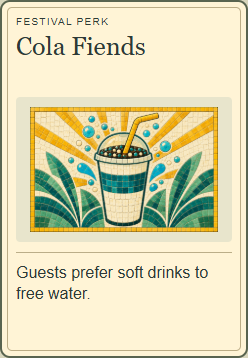
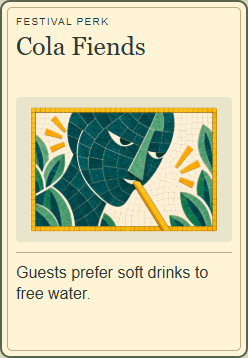
Integrate approved Cola Fiends v5 mosaic artwork

Changed region(s): [[0.1129, 0.2765, 0.9032, 0.6453]]

diff --git a/assets/source/perks/mosaic-suite-v1/PROMPTS.md b/assets/source/perks/mosaic-suite-v1/PROMPTS.md
@@ -132,3 +132,20 @@ Use case: precise-object-edit. Image1 is the edit target. Change ONLY the smiley
 Use case: precise-object-edit. Image1 is the edit target for a text-free mosaic perk card called Cola Fiends. Keep the protective cola-clutching pose, main cola cup and two spent cups, golden sun rays, sage and teal foliage, gold border and chunky glazed ceramic mosaic material. Replace the entire detailed human character with a MUCH MORE ABSTRACT, graphic dark-teal guest silhouette, in the same central placement. A plain round/oval featureless head, a simple rounded torso and two simplified mitten-like hands curved protectively around the cola cup. No anatomical fingers or realistic skin. NO facial features at all: no eyes, nose, lips, teeth, cheeks, eyebrows, ears, hair or facial modelling. Slightly hunch the simple head towards the golden straw to suggest compulsive sipping / needing their cola fix. Make it read as an elegant playful symbolic icon rather than a cartoon portrait. Main cup: cream paper with teal band, dark teal-brown cola visible at rim, bent golden straw; spent cups at lower left indicate a cola habit. No bubble-tea pearls or floating bubbles, no drugs, no brands, no text, no red. Landscape3:2 opaque PNG1536x1024; all edges and border visible.
 
 
+
+## Cola Fiends v5 — approved 3 October 2026
+
+Selected v5 replaces the original runtime artwork; earlier candidates remain source alternatives. Approval: ../mosaic-suite-batch2/revisions-v5/APPROVAL.md. Effect remains: Guests prefer soft drinks to free water.
+
+# Cola Fiends v5 — alternative geometric close-up
+
+Built-in image_gen; prior v4 artwork used as a style reference. New candidate for user review, not a runtime replacement. Earlier concepts retained.
+
+## Prompt
+
+Use case: stylized-concept. Create ONE NEW alternative to image1 (style reference, not a scene to copy exactly). Text-free artwork for a festival-tycoon perk called Cola Fiends. Landscape3:2 PNG1536x1024.
+A cropped close-up of an ABSTRACT TEAL ADULT FACE leaning down towards a SINGLE STRAIGHT GOLDEN STRAW. Face seen at three-quarter angle rather than complete side profile. Use spare bold geometric planes: oval head, one angular triangular nose, two small cream eye slivers, tiny cream mouth notch. No large ear, no detailed hair, no realistic flesh, teeth, pupils or portrait anatomy. Expression slyly intent through the slightly lowered eye slivers and tilt. The face occupies left/centre; cream tiled negative space at right.
+The straight straw enters diagonally from the bottom-right edge and ends at the visually ambiguous small gap between underside of nose and upper lip. NO bend in the straw, no visible cup, drink, hands or torso. The composition should make the viewer briefly wonder whether the character is sipping cola or taking a 'coke' fix. This is suggestive visual wordplay only: no powder, drug substances, paraphernalia, instructions, labels or other props.
+Match image1's handmade glazed ceramic mosaic: chunky subtly irregular tesserae, warm ivory grout, rich deep teal/turquoise/sage/golden yellow/warm cream. Thin golden tile border fully visible on four sides, cream mosaic background, restrained sage leaf corners and a few golden rays. Clear simple icon-like abstraction, not uncanny cartoon human, not vector illustration. NO red, text, letters, numerals, logos or watermarks. Opaque straight-on flat mosaic panel. Keep complete face/straw relation safely inside the border, except bottom of straw intentionally goes offscreen.
+
+

diff --git a/assets/source/DESIGN_INDEX.md b/assets/source/DESIGN_INDEX.md
@@ -10,9 +10,9 @@ The user's [working agreement](../../docs/WORKING-AGREEMENTS.md) records that ap
 
 Perk mosaic batch 2 adds six existing-catalogue artworks under user-requested integration and producer authorization on 3 October 2026: [full source/reviews](perks/mosaic-suite-batch2/) and [integration result](../../briefs/results/perk-mosaic-batch2.md). The active suite-v1 manifest now indexes fourteen cards while preserving the original eight. Initial integration did not claim separate user aesthetic approval; subsequent feedback is recorded below. No gameplay or layout changes accompany the assets.
 
-Batch 2 revision: user approved Beer Festival, Bring Your Own Bottle and Alcoholics; requested Friendly Queues smileys and clipboard-free Robot Workers are integrated. The new Cola Fiends candidate remains source/review only pending selection, with canonical runtime unchanged. [Revision scope](perks/mosaic-suite-batch2/revisions-v2/INTEGRATION.md).
+Batch 2 revision: user approved Beer Festival, Bring Your Own Bottle and Alcoholics; requested Friendly Queues smileys and clipboard-free Robot Workers are integrated. At that revision, Cola Fiends remained source/review only; v5 selection is recorded below. [Revision scope](perks/mosaic-suite-batch2/revisions-v2/INTEGRATION.md).
 
-Latest batch 2 revision supersedes the circular Friendly Queues faces with blue eyes and smiles directly on cream bubbles. Robot Workers v2 is user-approved and unchanged. Cola Fiends v3 stays preview-only pending selection. [Current revision scope](perks/mosaic-suite-batch2/revisions-v3/INTEGRATION.md).
+Batch 2 revision 3 supersedes the circular Friendly Queues faces with blue eyes and smiles directly on cream bubbles. Robot Workers v2 is user-approved and unchanged. Cola Fiends v3 remains a source alternative. [Current revision scope](perks/mosaic-suite-batch2/revisions-v3/INTEGRATION.md).
 
 | Design / repo copy | Current status | Implementation / supersession |
 | --- | --- | --- |
@@ -50,3 +50,5 @@ Approved 1 October 2026 and integrated in [R0.05ah](../../briefs/R0.05ah-litter-
 - Any link inside an older copied handoff that points to `../portaloo-asset-v1/`, sibling original art-workspace directories or old absolute `C:/Projects/...` evidence paths must be read as **historical source context**, not guaranteed repo-local links. The current index links above are verified repo files; missing original siblings are explicitly external. Broken or inaccessible source references should be resolved against the art workspace before asset work, not silently replaced with a similar-looking file.
 
 The [current-design entrypoint](../../CURRENT_DESIGN.md), [dated decisions](../../briefs/DECISIONS.md) and [backlog](../../briefs/BACKLOG.md) classify implementation and pending status. This index establishes source location and provenance only.
+
+Latest batch 2 revision: user-approved Cola Fiends v5 is integrated with matching SVG and refreshed previews. Earlier candidates remain source alternatives. [Approval](perks/mosaic-suite-batch2/revisions-v5/APPROVAL.md) and [integration](perks/mosaic-suite-batch2/revisions-v5/INTEGRATION.md).

diff --git a/assets/source/perks/mosaic-suite-batch2/revisions-v4/PROMPTS.md b/assets/source/perks/mosaic-suite-batch2/revisions-v4/PROMPTS.md
@@ -1,0 +1,9 @@
+# Cola Fiends v4 — ambiguous straw close-up
+
+Built-in image_gen, one call, previous abstract v3 artwork as the style/reference anchor. New candidate for user review; v3 remains the backup. Friendly Queues v3 is user-approved. No runtime cola replacement is authorized until the user selects a concept.
+
+## Prompt
+
+Use case: stylized-concept / precise-object-edit. Image1 is the previous Cola Fiends mosaic concept, the style and abstract-character anchor. Create ONE revised text-free perk artwork, landscape 3:2 PNG1536x1024.
+New composition: a much closer cropped view of a single abstract teal adult guest's face in THREE-QUARTER / SIDE PROFILE, leaning forward toward one golden straw entering diagonally from the bottom edge. All drinks, cups, hands and torso are OUT OF SHOT. The golden straw's upper end meets the tiny gap BETWEEN the simplified nose underside and upper lip; its destination is intentionally visually AMBIGUOUS, could be drinking through the mouth or sniffing through the nose. This is a cheeky fictional 'cola fiend / coke fiend' visual pun. Keep it ambiguous, NOT explicit drug use: no visible substance, no powder, baggies, lines, mirror or other props. The hidden lower end of the straw continues beyond the bottom inner border into offscreen space.
+Face is an elegant abstract mosaic silhouette: rich deep teal with a minimal angular nose profile, one small cream eye tile, a tiny understated turquoise mouth mark. Large bold flat shapes, no realistic skin, anatomy modelling, detailed irises, teeth, cheeks, hair strands or creepy cartoon portrait. Expression focused and slightly furtive, communicated primarily by the lean and eye angle. Head fills most of the panel but fits within the golden border. Retain the suite's chunky handmade glazed ceramic tesserae, warm ivory grout, deep teal/turquoise/sage/golden yellow/warm cream palette. Restrained sage leaf corners and a few golden ray accents; cream tiled background. Thin golden tile border on all four edges. NO red, amber drink, black drug paraphernalia, text, lettering, numerals, watermark, logos or brands. Opaque, straight-on mosaic panel, not tilted/tabletop, not a full card or sheet.

diff --git a/assets/source/perks/mosaic-suite-batch2/revisions-v5/PROMPTS.md b/assets/source/perks/mosaic-suite-batch2/revisions-v5/PROMPTS.md
@@ -1,0 +1,10 @@
+# Cola Fiends v5 — alternative geometric close-up
+
+Built-in image_gen; prior v4 artwork used as a style reference. New candidate for user review, not a runtime replacement. Earlier concepts retained.
+
+## Prompt
+
+Use case: stylized-concept. Create ONE NEW alternative to image1 (style reference, not a scene to copy exactly). Text-free artwork for a festival-tycoon perk called Cola Fiends. Landscape3:2 PNG1536x1024.
+A cropped close-up of an ABSTRACT TEAL ADULT FACE leaning down towards a SINGLE STRAIGHT GOLDEN STRAW. Face seen at three-quarter angle rather than complete side profile. Use spare bold geometric planes: oval head, one angular triangular nose, two small cream eye slivers, tiny cream mouth notch. No large ear, no detailed hair, no realistic flesh, teeth, pupils or portrait anatomy. Expression slyly intent through the slightly lowered eye slivers and tilt. The face occupies left/centre; cream tiled negative space at right.
+The straight straw enters diagonally from the bottom-right edge and ends at the visually ambiguous small gap between underside of nose and upper lip. NO bend in the straw, no visible cup, drink, hands or torso. The composition should make the viewer briefly wonder whether the character is sipping cola or taking a 'coke' fix. This is suggestive visual wordplay only: no powder, drug substances, paraphernalia, instructions, labels or other props.
+Match image1's handmade glazed ceramic mosaic: chunky subtly irregular tesserae, warm ivory grout, rich deep teal/turquoise/sage/golden yellow/warm cream. Thin golden tile border fully visible on four sides, cream mosaic background, restrained sage leaf corners and a few golden rays. Clear simple icon-like abstraction, not uncanny cartoon human, not vector illustration. NO red, text, letters, numerals, logos or watermarks. Opaque straight-on flat mosaic panel. Keep complete face/straw relation safely inside the border, except bottom of straw intentionally goes offscreen.

diff --git a/briefs/results/perk-mosaic-batch2.md b/briefs/results/perk-mosaic-batch2.md
@@ -1,4 +1,11 @@
 # Perk mosaic batch 2 integration
+## Approved Cola Fiends v5 — 3 October 2026
+
[1 lines of base64/hex data omitted]
+
+Fourteen focused tests passed; all fourteen PNG/SVG pairs loaded in native Godot; review renderer passed exact catalogue/master/copy checks; all eighteen previews have exact dimensions. Inspected master and full/draft/owned cards. Other thirteen runtime PNG/SVG pairs and manifest entries match the previous commit exactly. [Evidence](../../reports/evidence/perk-mosaic-batch2/revision5/).
+
+No gameplay/layout/code change or EXE. Review compositions are not native UI screenshots; no manual playthrough claimed. Godot emitted environment log/certificate warnings but resource checks passed. The first dotnet wrapper ignored its filter and was stopped; the freshly built test executable ran the exact filter successfully. Existing unrelated character import edits/source work are excluded. Older records below are historical.
 
 ## Requested revision 3 — 3 October 2026
 

diff --git a/assets/source/perks/mosaic-suite-batch2/revisions-v5/INTEGRATION.md b/assets/source/perks/mosaic-suite-batch2/revisions-v5/INTEGRATION.md
@@ -1,0 +1,6 @@
+# Cola Fiends v5 integrated — 3 October 2026
+
[1 lines of base64/hex data omitted]
+The matching SVG fallback uses the approved geometric face and straight golden straw. Original PNG/SVG are archived in originals/; v2, v3 and v4 remain source alternatives. Full, draft and owned previews plus both contact sheets are refreshed from the approved delivery.
+Effect remains exactly: "Guests prefer soft drinks to free water."
+All other artwork, gameplay, native layout and catalogue content are unchanged. No EXE is required for this asset update. Supplied previews are review compositions, not native screenshots.

diff --git a/assets/source/perks/mosaic-suite-batch2/revisions-v5/APPROVAL.md b/assets/source/perks/mosaic-suite-batch2/revisions-v5/APPROVAL.md
@@ -1,0 +1,4 @@
+Cola Fiends v5 approved by the user on 2026-10-03: "yep that's good".
+
+Selected master: ../artwork/cola-fiends.png, copied from cola-fiends-v5.png.
+Effect remains unchanged. Earlier variants are retained as alternatives, not selected runtime artwork.
